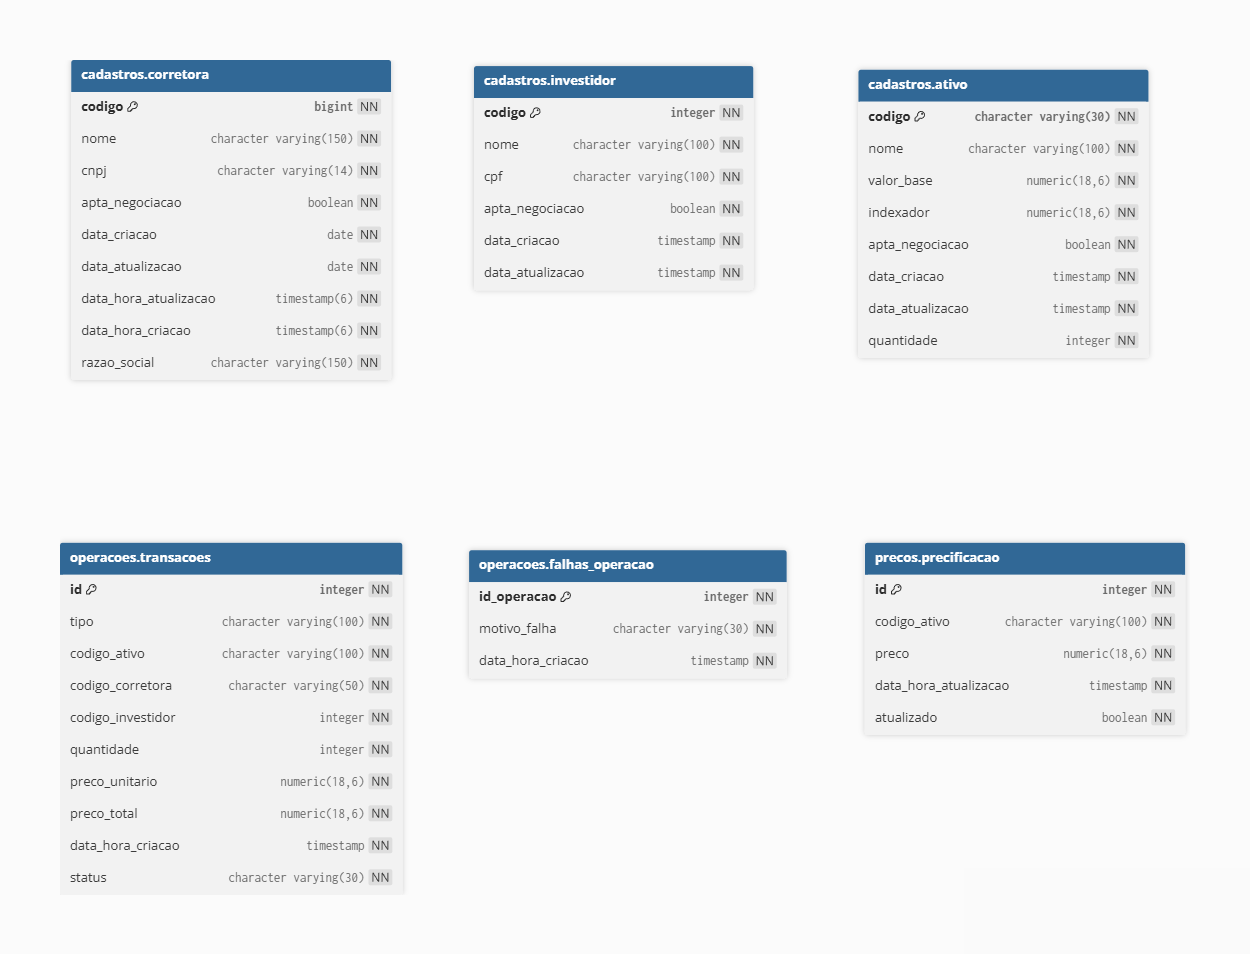
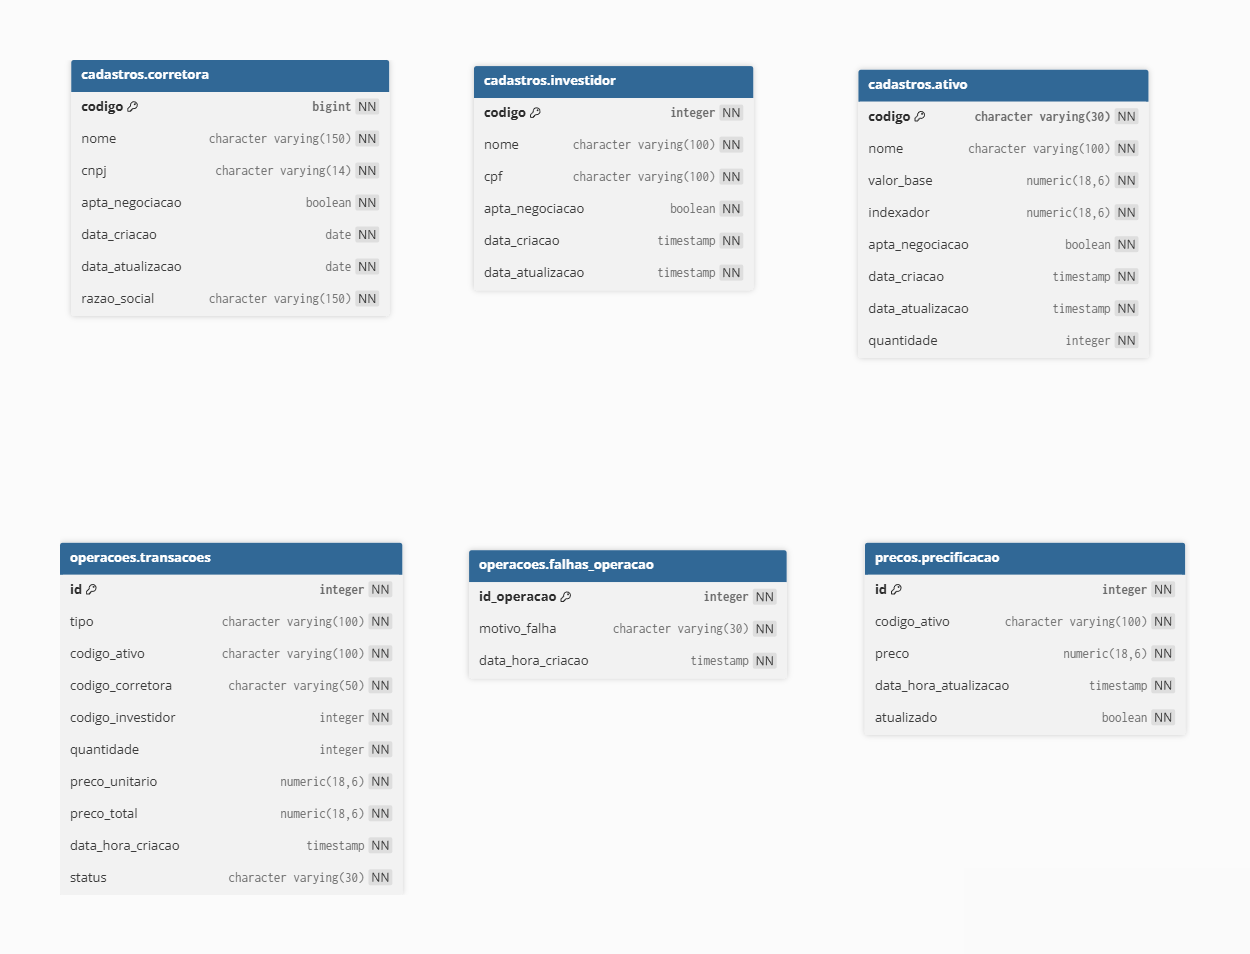
Atulizando documentação do banco de dados

Changed region(s): [[0.156, 0.0912, 0.312, 0.3952], [0.0624, 0.304, 0.1872, 0.3952]]

diff --git a/infraestrutura-postgresql/infraestrutura-postgresql.md b/infraestrutura-postgresql/infraestrutura-postgresql.md
@@ -17,13 +17,11 @@ Armazena informações das corretoras registradas no sistema.
 |--------|------|-----------|-----------|
 | `codigo` | `bigint` | `NOT NULL` | Identificador único da corretora (PK) |
 | `nome` | `character varying(150)` | `NOT NULL` | Nome fantasia da corretora |
+| `razao_social` | `character varying(150)` | `NOT NULL` | Razão social da corretora |
 | `cnpj` | `character varying(14)` | `NOT NULL` | CNPJ da corretora (apenas números) |
 | `apta_negociacao` | `boolean` | `NOT NULL` | Indica se a corretora está apta a negociar |
 | `data_criacao` | `date` | `NOT NULL` | Data de criação do registro |
 | `data_atualizacao` | `date` | `NOT NULL` | Data da última atualização |
-| `data_hora_atualizacao` | `timestamp(6)` | `NOT NULL` | Timestamp da última atualização |
-| `data_hora_criacao` | `timestamp(6)` | `NOT NULL` | Timestamp de criação do registro |
-| `razao_social` | `character varying(150)` | `NOT NULL` | Razão social da corretora |
 
 ---
 
@@ -44,34 +42,34 @@ Armazena informações dos investidores.
 ### CADASTRO.ATIVO
 Armazena os ativos financeiros disponíveis para negociação.
 
-| Coluna | Tipo | Restrição | Descrição |
-|--------|------|-----------|-----------|
-| `codigo` | `character varying(30)` | `NOT NULL` | Código único do ativo (PK) |
-| `nome` | `character varying(100)` | `NOT NULL` | Nome do ativo |
-| `valor_base` | `numeric(18,6)` | `NOT NULL` | Valor base do ativo |
-| `indexador` | `numeric(18,6)` | `NOT NULL` | Índice de correção do ativo |
-| `apta_negociacao` | `boolean` | `NOT NULL` | Indica se o ativo está disponível |
-| `data_criacao` | `timestamp` | `NOT NULL` | Data/hora de criação do registro |
-| `data_atualizacao` | `timestamp` | `NOT NULL` | Data/hora da última atualização |
-| `quantidade` | `integer` | `NOT NULL` | Quantidade total do ativo |
+| Coluna | Tipo | Restrição | Descrição                                        |
+|--------|------|-----------|--------------------------------------------------|
+| `codigo` | `character varying(30)` | `NOT NULL` | Código único do ativo (PK)                       |
+| `nome` | `character varying(100)` | `NOT NULL` | Nome do ativo                                    |
+| `valor_base` | `numeric(18,6)` | `NOT NULL` | Valor base para operação do ativo                                                 |
+| `indexador` | `numeric(18,6)` | `NOT NULL` | Percentual de valorização/desvalorização do ativo |
+| `quantidade` | `integer` | `NOT NULL` | Quantidade total do ativo                        |
+| `apta_negociacao` | `boolean` | `NOT NULL` | Indica se o ativo está disponível para negociação |
+| `data_criacao` | `timestamp` | `NOT NULL` | Data/hora de criação do registro                 |
+| `data_atualizacao` | `timestamp` | `NOT NULL` | Data/hora da última atualização                  |
 
 ---
 
 ### OPERACOES.TRANSACOES
 Registra todas as transações realizadas.
 
-| Coluna | Tipo | Restrição | Descrição |
-|--------|------|-----------|-----------|
+| Coluna | Tipo | Restrição | Descrição                             |
+|--------|------|-----------|---------------------------------------|
 | `id` | `integer` | `NOT NULL` | Identificador único da transação (PK) |
-| `tipo` | `character varying(100)` | `NOT NULL` | Tipo da operação (ex: compra, venda) |
-| `codigo_ativo` | `character varying(100)` | `NOT NULL` | Código do ativo negociado |
-| `codigo_corretora` | `character varying(50)` | `NOT NULL` | Código da corretora envolvida |
-| `codigo_investidor` | `integer` | `NOT NULL` | Código do investidor |
-| `quantidade` | `integer` | `NOT NULL` | Quantidade de ativos negociados |
-| `preco_unitario` | `numeric(18,6)` | `NOT NULL` | Preço unitário do ativo |
-| `preco_total` | `numeric(18,6)` | `NOT NULL` | Preço total da transação |
-| `data_hora_criacao` | `timestamp` | `NOT NULL` | Data/hora da transação |
-| `status` | `character varying(30)` | `NOT NULL` | Status da operação (ex: concluída, pendente) |
+| `tipo` | `character varying(100)` | `NOT NULL` | Tipo da operação (ex: compra, venda)  |
+| `codigo_ativo` | `character varying(100)` | `NOT NULL` | Código do ativo negociado             |
+| `codigo_corretora` | `character varying(50)` | `NOT NULL` | Código da corretora envolvida         |
+| `codigo_investidor` | `integer` | `NOT NULL` | Código do investidor                  |
+| `quantidade` | `integer` | `NOT NULL` | Quantidade de ativos negociados       |
+| `preco_unitario` | `numeric(18,6)` | `NOT NULL` | Preço unitário do ativo               |
+| `preco_total` | `numeric(18,6)` | `NOT NULL` | Preço total da transação              |
+| `data_hora_criacao` | `timestamp` | `NOT NULL` | Data/hora da transação                |
+| `status` | `character varying(30)` | `NOT NULL` | Status da operação (ex: sucesso, falha)           |
 
 ---
 
@@ -88,12 +86,12 @@ Armazena informações sobre falhas ocorridas durante as operações.
 ### OPERACOES.PRECIFICACAO
 Mantém os preços atualizados dos ativos.
 
-| Coluna | Tipo | Restrição | Descrição |
-|--------|------|-----------|-----------|
+| Coluna | Tipo | Restrição | Descrição                            |
+|--------|------|-----------|--------------------------------------|
 | `id` | `integer` | `NOT NULL` | Identificador único do registro (PK) |
-| `codigo_ativo` | `character varying(100)` | `NOT NULL` | Código do ativo |
-| `preco` | `numeric(18,6)` | `NOT NULL` | Preço atual do ativo |
-| `data_hora_atualizacao` | `timestamp` | `NOT NULL` | Data/hora da última atualização |
-| `atualizado` | `boolean` | `NOT NULL` | Indicador se o preço foi atualizado |
+| `codigo_ativo` | `character varying(100)` | `NOT NULL` | Código do ativo                      |
+| `preco` | `numeric(18,6)` | `NOT NULL` | Preço do ativo                       |
+| `data_hora_atualizacao` | `timestamp` | `NOT NULL` | Data/hora da atualização      |
+| `atualizado` | `boolean` | `NOT NULL` | Indicador se o preço é o atualizado  |
 
 ---